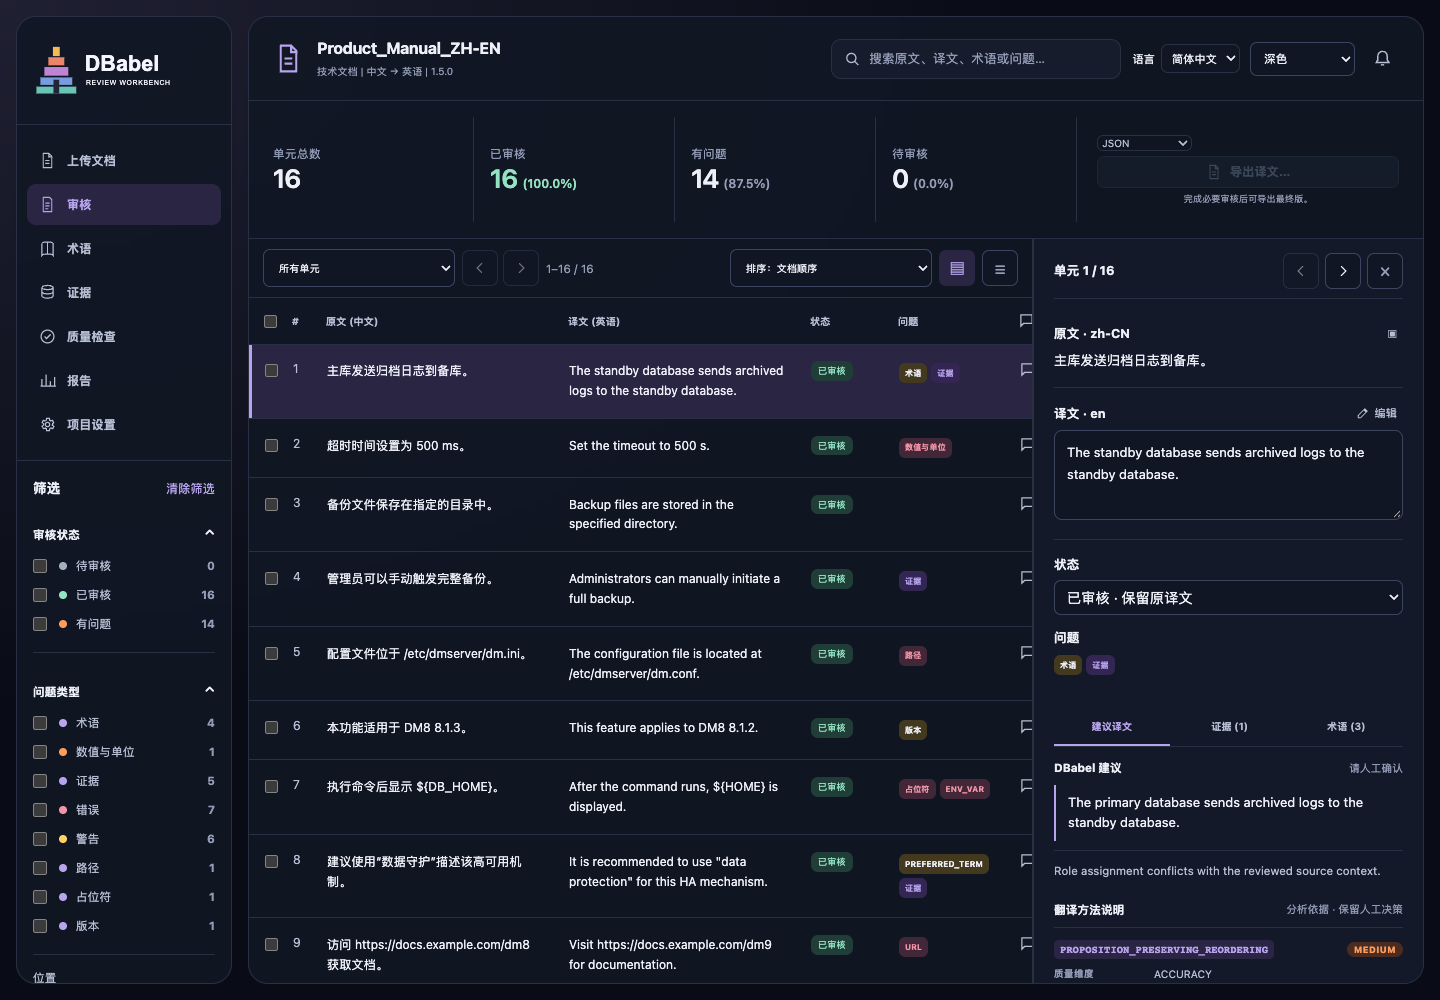
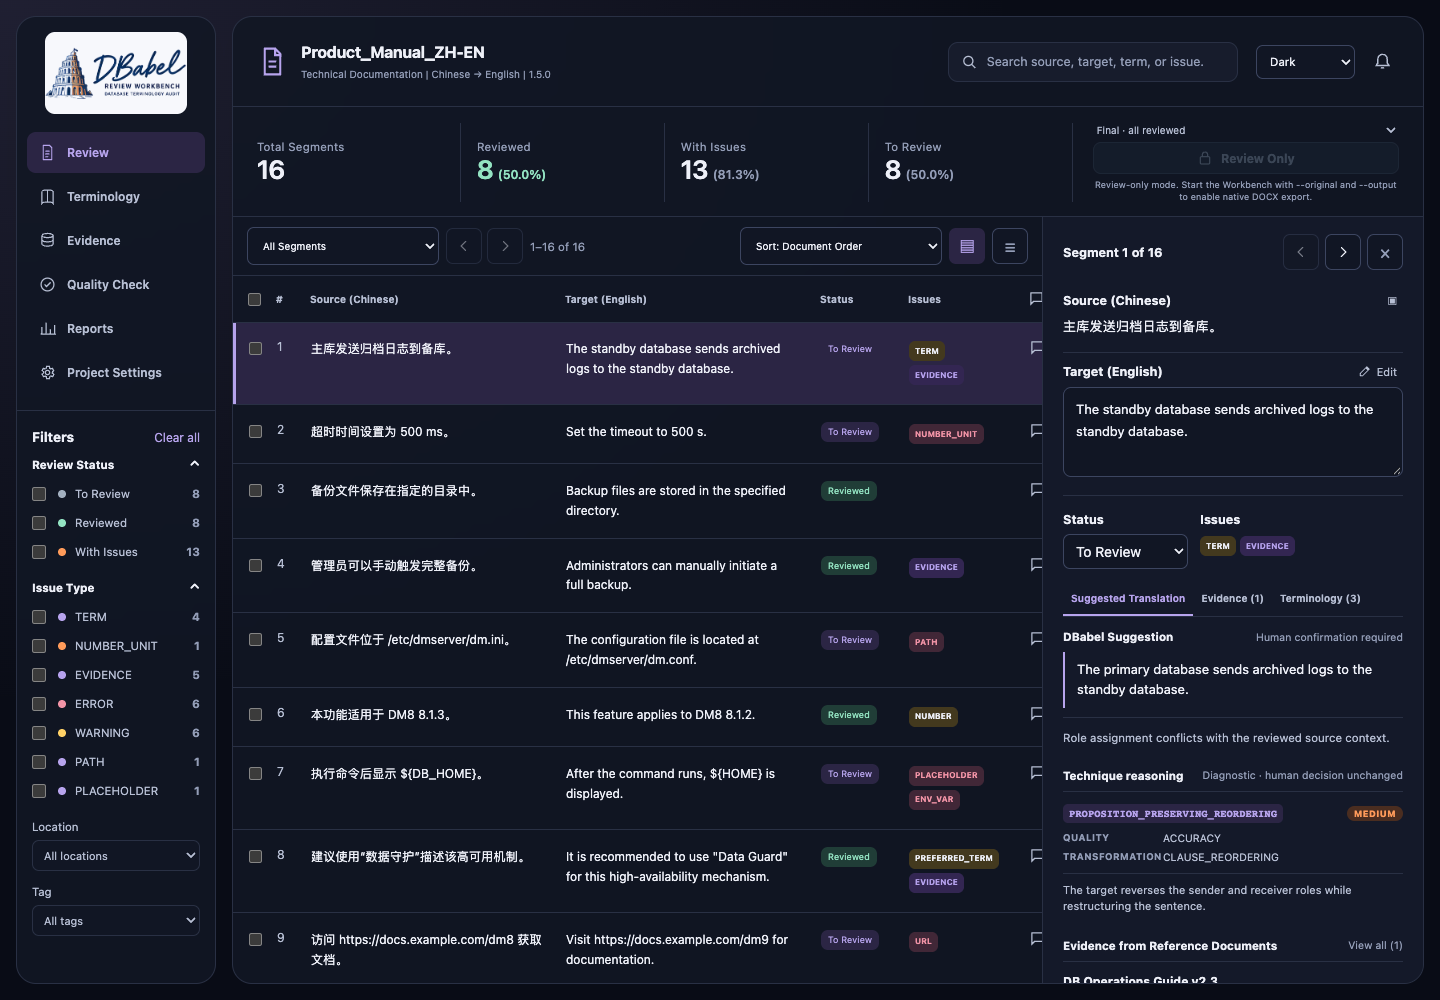
fix: restore README branding and workbench preview

diff --git a/README.md b/README.md
@@ -1,7 +1,8 @@
-<p align="center"><picture>
-  <source media="(prefers-color-scheme: dark)" srcset="assets/dbabel-logo-dark.svg">
-  <img src="assets/dbabel-logo-light.svg" alt="DBabel Review Workbench" width="420">
-</picture></p>
+<p align="center">
+  <img src="assets/dbabel-social-preview.png"
+       alt="DBabel — Database terminology review for AI agents."
+       width="100%">
+</p>
 
 # DBabel
 
